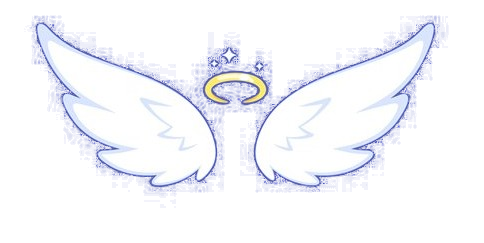
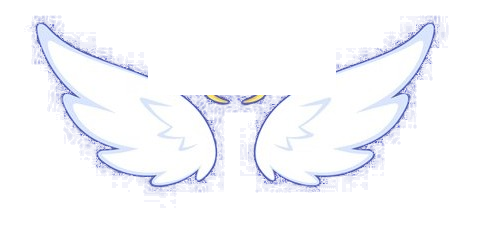
Separate halo from wings, place halo on card top and heart badge

Changed region(s): [[0.2789, 0.1728, 0.7128, 0.4033]]

diff --git a/components/PersonNode.tsx b/components/PersonNode.tsx
@@ -20,39 +20,36 @@ export type PersonNodeType = Node<
 >
 
 function SpouseHeartBadge({ spouse, onSelect }: { spouse: Person; onSelect: (p: Person) => void }) {
-  const initial     = spouse.firstName.charAt(0).toUpperCase()
-  const label       = `${spouse.firstName}${spouse.surname ? ' ' + spouse.surname : ''}`
-  const spouseGone  = !!(spouse.deceased || spouse.deathYear)
+  const initial    = spouse.firstName.charAt(0).toUpperCase()
+  const label      = `${spouse.firstName}${spouse.surname ? ' ' + spouse.surname : ''}`
+  const spouseGone = !!(spouse.deceased || spouse.deathYear)
   return (
     <div
       title={label}
       onClick={(e) => { e.stopPropagation(); onSelect(spouse) }}
-      style={{ width: 30, height: spouseGone ? 36 : 30, flexShrink: 0, cursor: 'pointer' }}
+      style={{ position: 'relative', width: 30, height: spouseGone ? 44 : 30, flexShrink: 0, cursor: 'pointer' }}
     >
+      {spouseGone && (
+        // eslint-disable-next-line @next/next/no-img-element
+        <img
+          alt=""
+          src="/angel-halo.png"
+          style={{
+            position: 'absolute',
+            width: 44,
+            top: 0,
+            left: '50%',
+            transform: 'translateX(-50%)',
+            pointerEvents: 'none',
+          }}
+        />
+      )}
       <svg
-        viewBox={spouseGone ? '0 -6 32 36' : '0 0 32 30'}
+        viewBox="0 0 32 30"
         width={30}
-        height={spouseGone ? 36 : 30}
-        style={{ filter: 'drop-shadow(0 2px 5px rgba(0,0,0,0.35))' }}
+        height={30}
+        style={{ position: 'absolute', bottom: 0, left: 0, filter: 'drop-shadow(0 2px 5px rgba(0,0,0,0.35))' }}
       >
-        {spouseGone && (
-          <>
-            {/* Right mini wing */}
-            <g transform="translate(26, 0)" fill="white" stroke="#b8ccee" strokeWidth="0.6">
-              <g transform="rotate(-30)"><ellipse cx="5" cy="0" rx="6" ry="1.8"/></g>
-              <g transform="rotate(-10)"><ellipse cx="6" cy="0" rx="7" ry="2.2"/></g>
-              <g transform="rotate(14)"><ellipse cx="5" cy="0" rx="6" ry="1.8"/></g>
-            </g>
-            {/* Left mini wing (mirror) */}
-            <g transform="translate(6, 0) scale(-1,1)" fill="white" stroke="#b8ccee" strokeWidth="0.6">
-              <g transform="rotate(-30)"><ellipse cx="5" cy="0" rx="6" ry="1.8"/></g>
-              <g transform="rotate(-10)"><ellipse cx="6" cy="0" rx="7" ry="2.2"/></g>
-              <g transform="rotate(14)"><ellipse cx="5" cy="0" rx="6" ry="1.8"/></g>
-            </g>
-            {/* Mini halo */}
-            <ellipse cx="16" cy="-3" rx="6" ry="2.2" fill="rgba(240,192,48,0.18)" stroke="#e8b820" strokeWidth="1.2"/>
-          </>
-        )}
         <path
           d="M16 27C16 27 2 18.5 2 10.5C2 6.358 5.358 3 9.5 3C11.824 3 13.9 4.05 15.3 5.73C15.68 6.19 16.32 6.19 16.7 5.73C18.1 4.05 20.176 3 22.5 3C26.642 3 30 6.358 30 10.5C30 18.5 16 27 16 27Z"
           fill="#e63946"
@@ -87,7 +84,9 @@ function PersonNode({ data, selected }: NodeProps<PersonNodeType>) {
   const accent = isFemale ? 'var(--accent-female)' : 'var(--accent)'
   const accentGlow = isFemale ? 'rgba(236,72,153,0.3)' : 'var(--accent-glow)'
 
-  const borderColor = selected
+  const borderColor = isDeceased
+    ? 'rgba(232,184,32,0.85)'
+    : selected
     ? accent
     : isPatriarch
     ? 'var(--node-root-border)'
@@ -99,7 +98,9 @@ function PersonNode({ data, selected }: NodeProps<PersonNodeType>) {
 
   const cardBg = isPatriarch ? 'var(--node-root-bg)' : 'var(--bg-card)'
 
-  const boxShadow = selected
+  const boxShadow = isDeceased
+    ? '0 0 0 2px rgba(232,184,32,0.5), 0 0 22px rgba(232,184,32,0.3), 0 4px 18px rgba(0,0,0,0.28)'
+    : selected
     ? `0 0 0 2px ${accent}, 0 0 28px ${accentGlow}`
     : isPatriarch
     ? '0 0 28px var(--accent-glow)'
@@ -145,19 +146,38 @@ function PersonNode({ data, selected }: NodeProps<PersonNodeType>) {
       {/* Angel wings — shown for deceased persons */}
       {isDeceased && (
         // eslint-disable-next-line @next/next/no-img-element
-        <img
-          alt=""
-          src="/angel-wings-transparent.png"
-          style={{
-            position: 'absolute',
-            width: 400,
-            top: -155,
-            left: '50%',
-            transform: 'translateX(-50%)',
-            pointerEvents: 'none',
-            userSelect: 'none',
-          }}
-        />
+        <>
+          {/* Wings (halo removed from this image) */}
+          {/* eslint-disable-next-line @next/next/no-img-element */}
+          <img
+            alt=""
+            src="/angel-wings-transparent.png"
+            style={{
+              position: 'absolute',
+              width: 400,
+              top: -155,
+              left: '50%',
+              transform: 'translateX(-50%)',
+              pointerEvents: 'none',
+              userSelect: 'none',
+            }}
+          />
+          {/* Halo — sits straddling the top center of the card */}
+          {/* eslint-disable-next-line @next/next/no-img-element */}
+          <img
+            alt=""
+            src="/angel-halo.png"
+            style={{
+              position: 'absolute',
+              width: 180,
+              top: -38,
+              left: '50%',
+              transform: 'translateX(-50%)',
+              pointerEvents: 'none',
+              userSelect: 'none',
+            }}
+          />
+        </>
       )}
 
       <div
